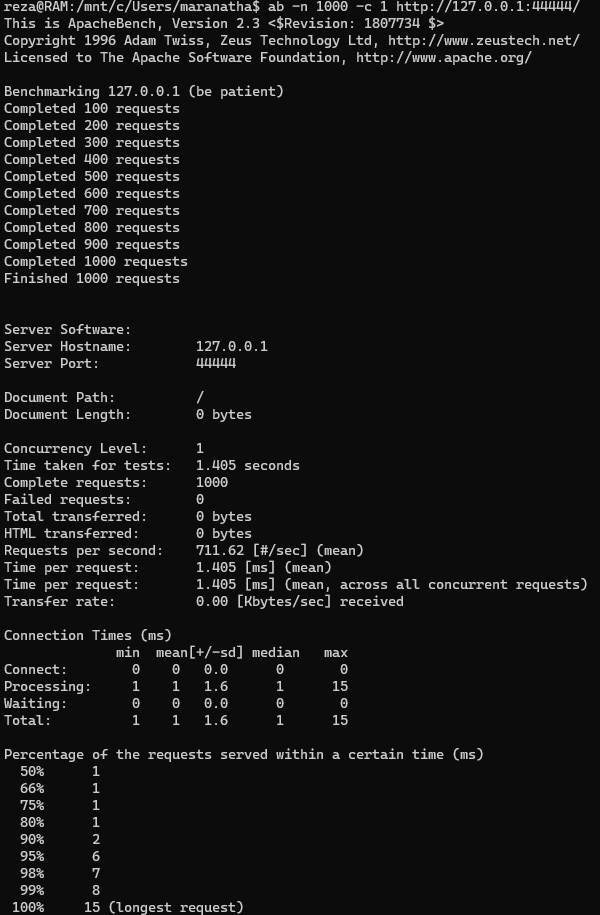
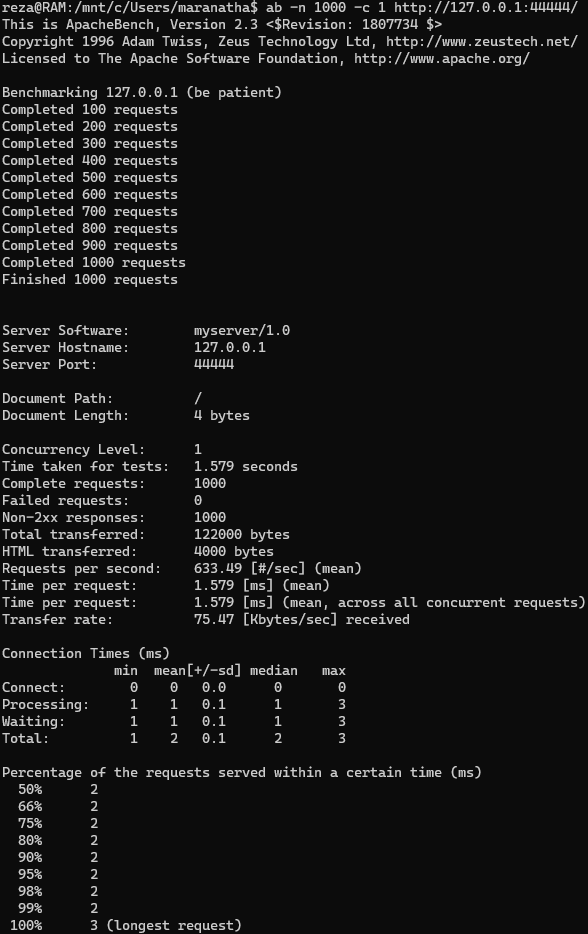
update

diff --git a/FP/page.html b/FP/page.html
@@ -1,0 +1,6 @@
+<html>
+<body>
+<img src="pokijan.jpg">
+<img src="research_center.jpg">
+</body>
+</html>

diff --git a/FP/lb.py b/FP/lb.py
@@ -86,7 +86,7 @@ class Server(asyncore.dispatcher):
 
 
 def main():
-	portnumber=44445
+	portnumber=44444
 	try:
 		portnumber=int(sys.argv[1])
 	except:
